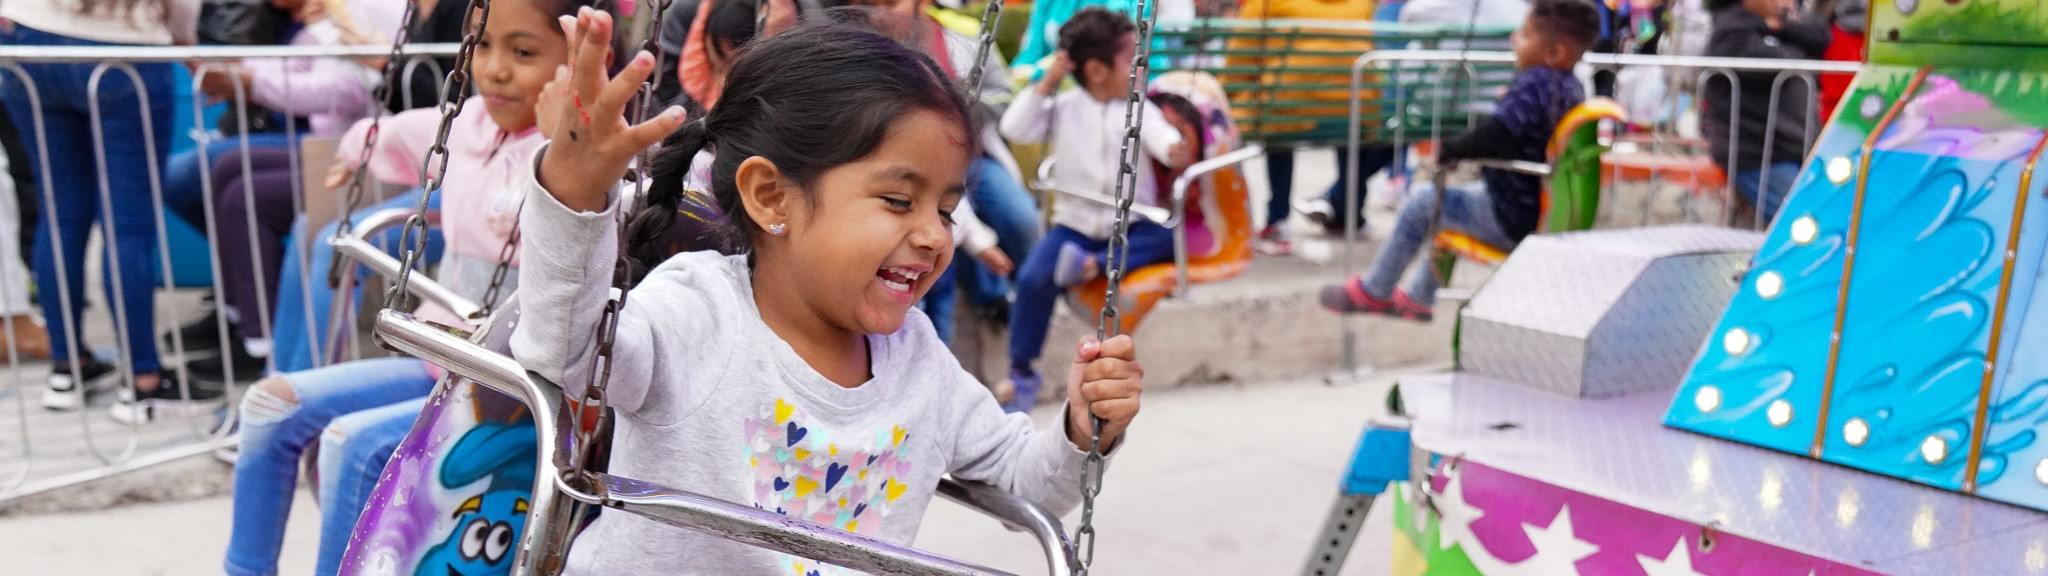
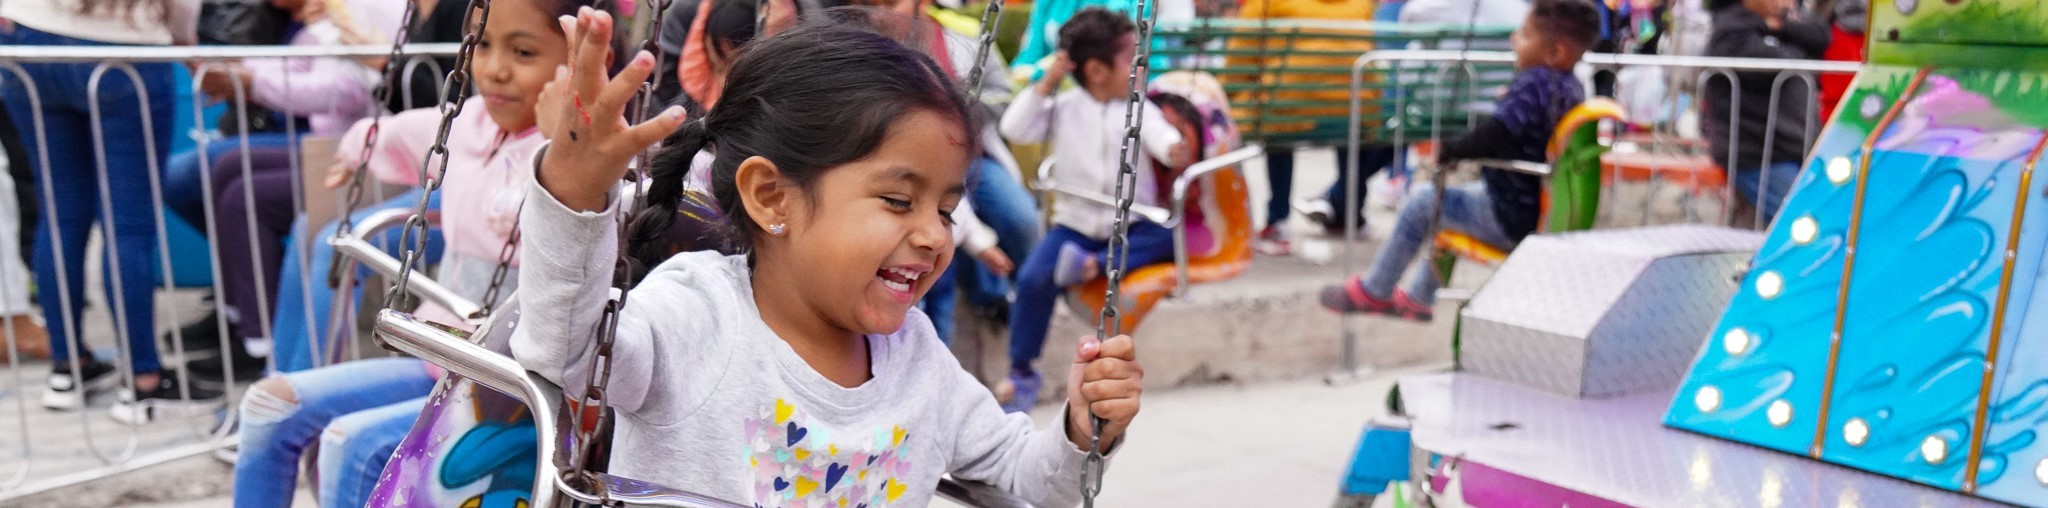
1

diff --git a/src/app/components/common/Hero.tsx b/src/app/components/common/Hero.tsx
@@ -2,60 +2,75 @@ import Image from "next/image";
 import BackgroundPattern from "./BackgroundPattern";
 import { HeroProps } from "../../../lib/types/hero";
 
-const Hero = ({ title, image, mobileImage, darkOverlay = true }: HeroProps) => {
+const Hero = ({
+  title = "",
+  image,
+  mobileImage,
+  darkOverlay = true,
+  backgroundPattern = true,
+}: HeroProps) => {
   return (
-    <div>
-      <div className="relative h-[400px] w-full overflow-hidden">
-        {/* Background Image with Overlay */}
-        <div className="absolute inset-0 z-0">
-          {/* Desktop Image */}
-          <div className="hidden md:block h-full">
-            <Image
-              src={image}
-              alt={title || ""}
-              fill
-              className="object-cover object-center"
-              priority
-              sizes="100vw"
-              quality={90}
-              style={{
-                objectFit: "cover",
-                objectPosition: "center",
-              }}
-            />
-          </div>
-
-          {/* Mobile Image */}
-          <div className="block md:hidden h-full">
-            <Image
-              src={mobileImage || image} // Fallback to desktop image if mobile not provided
-              alt={title || ""}
-              fill
-              className="object-cover object-center"
-              priority
-              sizes="100vw"
-              quality={90}
-              style={{
-                objectFit: "cover",
-                objectPosition: "center",
-              }}
-            />
-          </div>
-
-          {darkOverlay && <div className="absolute inset-0 bg-blue-950/40" />}
-        </div>
-        {/* Background Pattern */}
-        <div className="absolute inset-0 z-10">
-          <BackgroundPattern pattern="/divs/Headers.svg" />
+    <div
+      className={`relative min-h-[400px] md:min-h-[500px] lg:min-h-[400px] w-full`}
+    >
+      {/* Background Image */}
+      <div className="absolute inset-0 z-0">
+        {/* Desktop Image */}
+        <div className="hidden md:block h-full">
+          <Image
+            src={image}
+            alt={title || ""}
+            fill
+            className="object-cover"
+            priority
+            sizes="(max-width: 768px) 100vw, (max-width: 1200px) 100vw, 100vw"
+            quality={100}
+            style={{
+              objectFit: "cover",
+              objectPosition: "center 30%",
+            }}
+          />
         </div>
 
-        {/* Content */}
-        <div className="relative z-30 h-full flex items-center justify-center px-4 sm:px-6 lg:px-8">
-          <h1 className="text-white text-3xl sm:text-4xl md:text-5xl lg:text-6xl font-bold text-center max-w-4xl">
+        {/* Mobile Image */}
+        <div className="block md:hidden h-full">
+          <Image
+            src={mobileImage || image}
+            alt={title || ""}
+            fill
+            className="object-cover"
+            priority
+            sizes="100vw"
+            quality={100}
+            style={{
+              objectFit: "cover",
+              objectPosition: "center 30%",
+            }}
+          />
+        </div>
+
+        {darkOverlay && (
+          <div className="absolute inset-0 bg-blue-950/40 mix-blend-multiply" />
+        )}
+      </div>
+
+      {/* Background Pattern */}
+      {backgroundPattern && (
+        <div className="absolute inset-0 w-full h-full">
+          <div className="relative w-full h-full transform-gpu">
+            <BackgroundPattern pattern="/divs/Headers.svg" />
+          </div>
+        </div>
+      )}
+
+      {/* Content */}
+      {title && (
+        <div className="absolute inset-0 z-30 flex items-center justify-center">
+          <h1 className="text-white text-3xl sm:text-4xl md:text-5xl lg:text-6xl font-bold text-center max-w-4xl px-4">
             {title}
           </h1>
         </div>
-      </div>
+      )}
     </div>
   );
 };

diff --git a/src/app/components/blog/BlogHeader.tsx b/src/app/components/blog/BlogHeader.tsx
@@ -6,11 +6,11 @@ import { BlogHeaderProps } from "../../../lib/types/blog";
 export const BlogHeader = ({ title, date }: BlogHeaderProps) => {
   return (
     <>
-      <h1 className="text-3xl md:text-4xl lg:text-5xl font-bold mb-4 text-[#0A2355]">
+      <h1 className="text-3xl md:text-4xl lg:text-5xl font-bold mb-4 text-[#0A2355] text-start">
         {title}
       </h1>
 
-      <div className="text-[#F7A81B] mb-8 text-lg">
+      <div className="text-[#F7A81B] mb-8 text-lg text-start">
         <span>{formatDateES(date)}</span>
       </div>
     </>

diff --git a/src/app/(public)/page.tsx b/src/app/(public)/page.tsx
@@ -9,6 +9,7 @@ export default function Home() {
   return (
     <>
       <Hero
+        backgroundPattern={false}
         darkOverlay={false}
         image="/heros/home.jpg"
         mobileImage="/heros/homeMobile.jpg"

diff --git a/src/app/components/sections/ChangingLifes/ChangingLifesmobile.tsx b/src/app/components/sections/ChangingLifes/ChangingLifesmobile.tsx
@@ -1,6 +1,5 @@
 import Image from "next/image";
 import Button from "../../common/Buttton";
-import BackgroundPattern from "../../common/BackgroundPattern";
 
 const ChangingLifesmobile = () => {
   return (

diff --git a/src/lib/types/hero.ts b/src/lib/types/hero.ts
@@ -3,4 +3,5 @@ export interface HeroProps {
   image: string;
   mobileImage?: string;
   darkOverlay?: boolean;
+  backgroundPattern?: boolean;
 }
